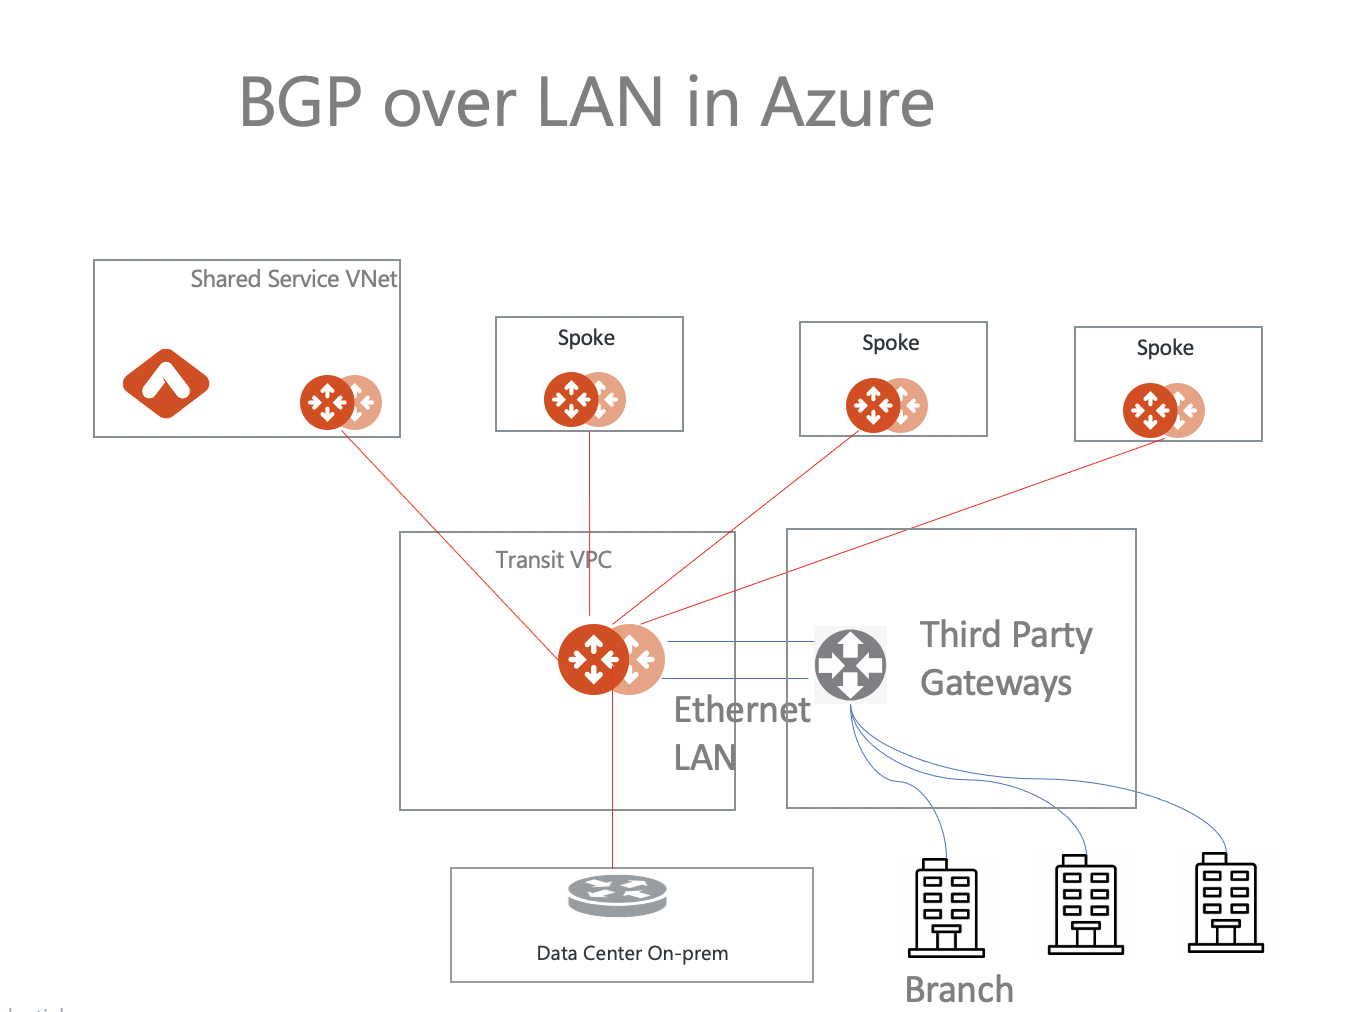
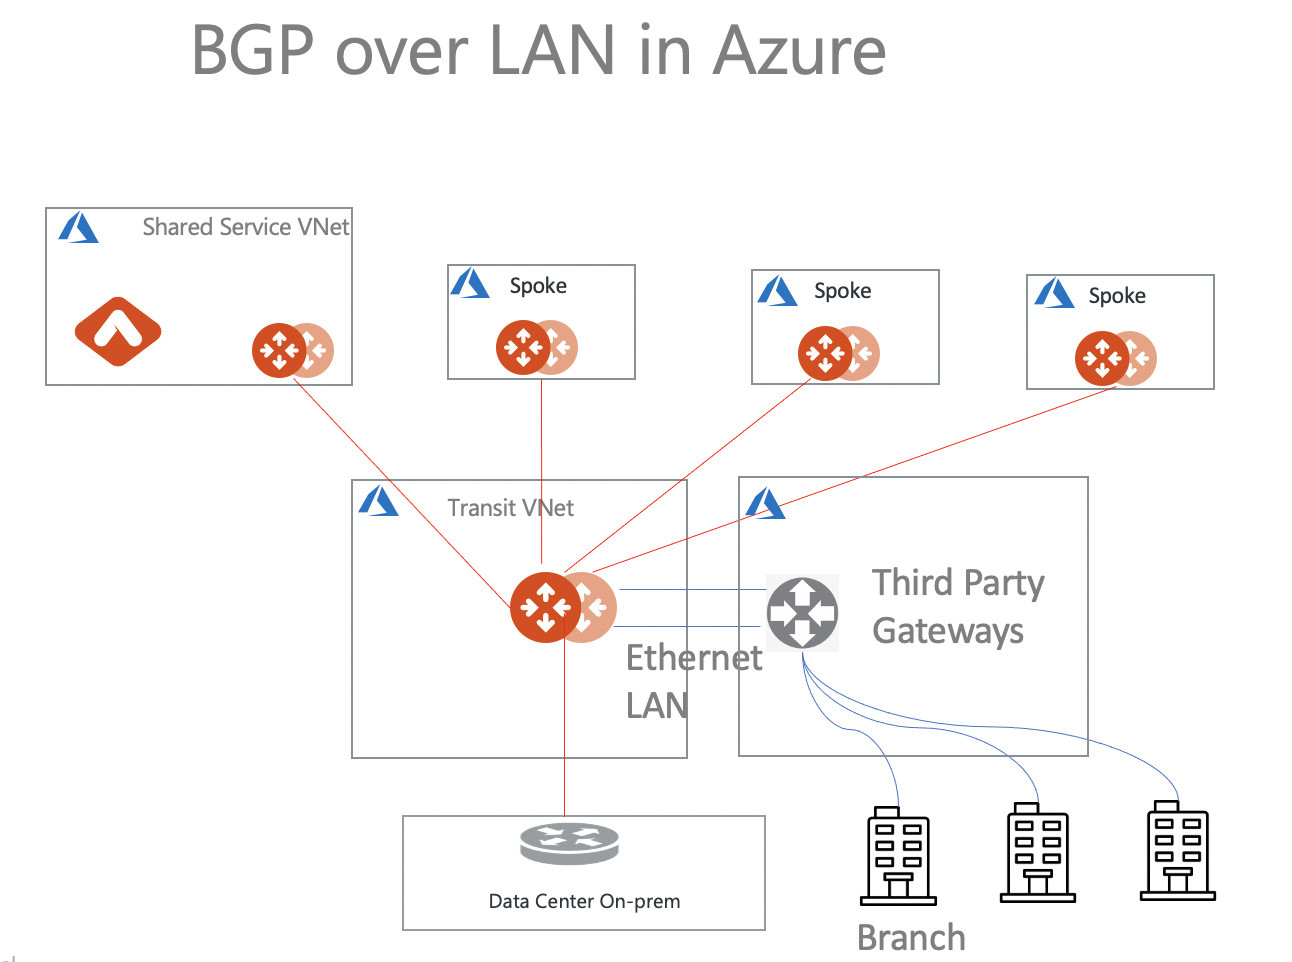
update release notes

diff --git a/HowTos/UCC_Release_Notes.rst b/HowTos/UCC_Release_Notes.rst
@@ -12,7 +12,7 @@ R6.3 (Coming Soon)
 
 - **Transit BGP over GRE Tunnel** provides an alternative tunneling protocol to IPSec when connecting Aviatrix Transit Gateway to on-prem. One use case is for an organization that requires high performance but not encryption. With GRE tunneling, Multi-cloud Transit Gateways in AWS connects with on-prem network devices without deploying Aviatrix CloudN appliances. Only available in AWS (Azure and GCP do not support GRE). For configuration information, refer to `Aviatrix Transit Gateway to External Devices <https://docs.aviatrix.com/HowTos/transitgw_external.html#how-to-configure>`_. For end-to-end configuration workflow and performance benchmark, refer to `GRE Tunneling workflow <https://docs.aviatrix.com/HowTos/transit_gateway_external_device_bgp_over_gre_high_performance_workflow.html>`_. 
 
-- **Transit BGP to LAN** allows Aviatrix Transit Gateways to communicate with other instances in the same VPC or VNet without running any tunneling protocol. One use case is to interoperate with cloud virtual appliances such as a SD-WAN cloud gateway instances that do not have the capability to support BGP over IPSec or GRE protocols. For configuration and performance information, refer to `BGP over LAN Workflow <https://docs.aviatrix.com/HowTos/transit_gateway_external_device_bgp_over_lan_workflow.html>`_. 
+- **Transit BGP to LAN** allows Aviatrix Transit Gateways to communicate with other instances in the same VPC or VNet without running any tunneling protocol. One use case is to interoperate with cloud virtual appliances such as a SD-WAN cloud gateway instances that do not have the capability to support BGP over IPSec or GRE protocols. For configuration and performance information, refer to `BGP over LAN in AWS Workflow <https://docs.aviatrix.com/HowTos/transit_gateway_external_device_bgp_over_lan_workflow.html>`_. For Azure, refer to `BGP over LAN in Azure Workflow <https://docs.aviatrix.com/HowTos/transit_gateway_external_device_bgp_over_lan_azure_workflow.html>`_. 
 
 - **Manual Advertise Routes per BGP Connection** expands the existing gateway based manual advertising routes feature to apply it to each BGP connection. One use case is to have better route advertising control for each remote BGP peer. For configuration details, refer to `Connection Base Manual BGP Advertisement <https://docs.aviatrix.com/HowTos/transit_advanced.html#connection-manual-bgp-advertised-network-list>`_.  
 

diff --git a/index.rst b/index.rst
@@ -118,6 +118,7 @@ While all content is searchable, the site is organized into the following sectio
    HowTos/private_oob_workflow
    HowTos/transit_gateway_external_device_bgp_over_gre_high_performance_workflow
    HowTos/transit_gateway_external_device_bgp_over_lan_workflow
+   HowTos/transit_gateway_external_device_bgp_over_lan_azure_workflow
 
 .. _Transit Gateway Orchestrator:
 
